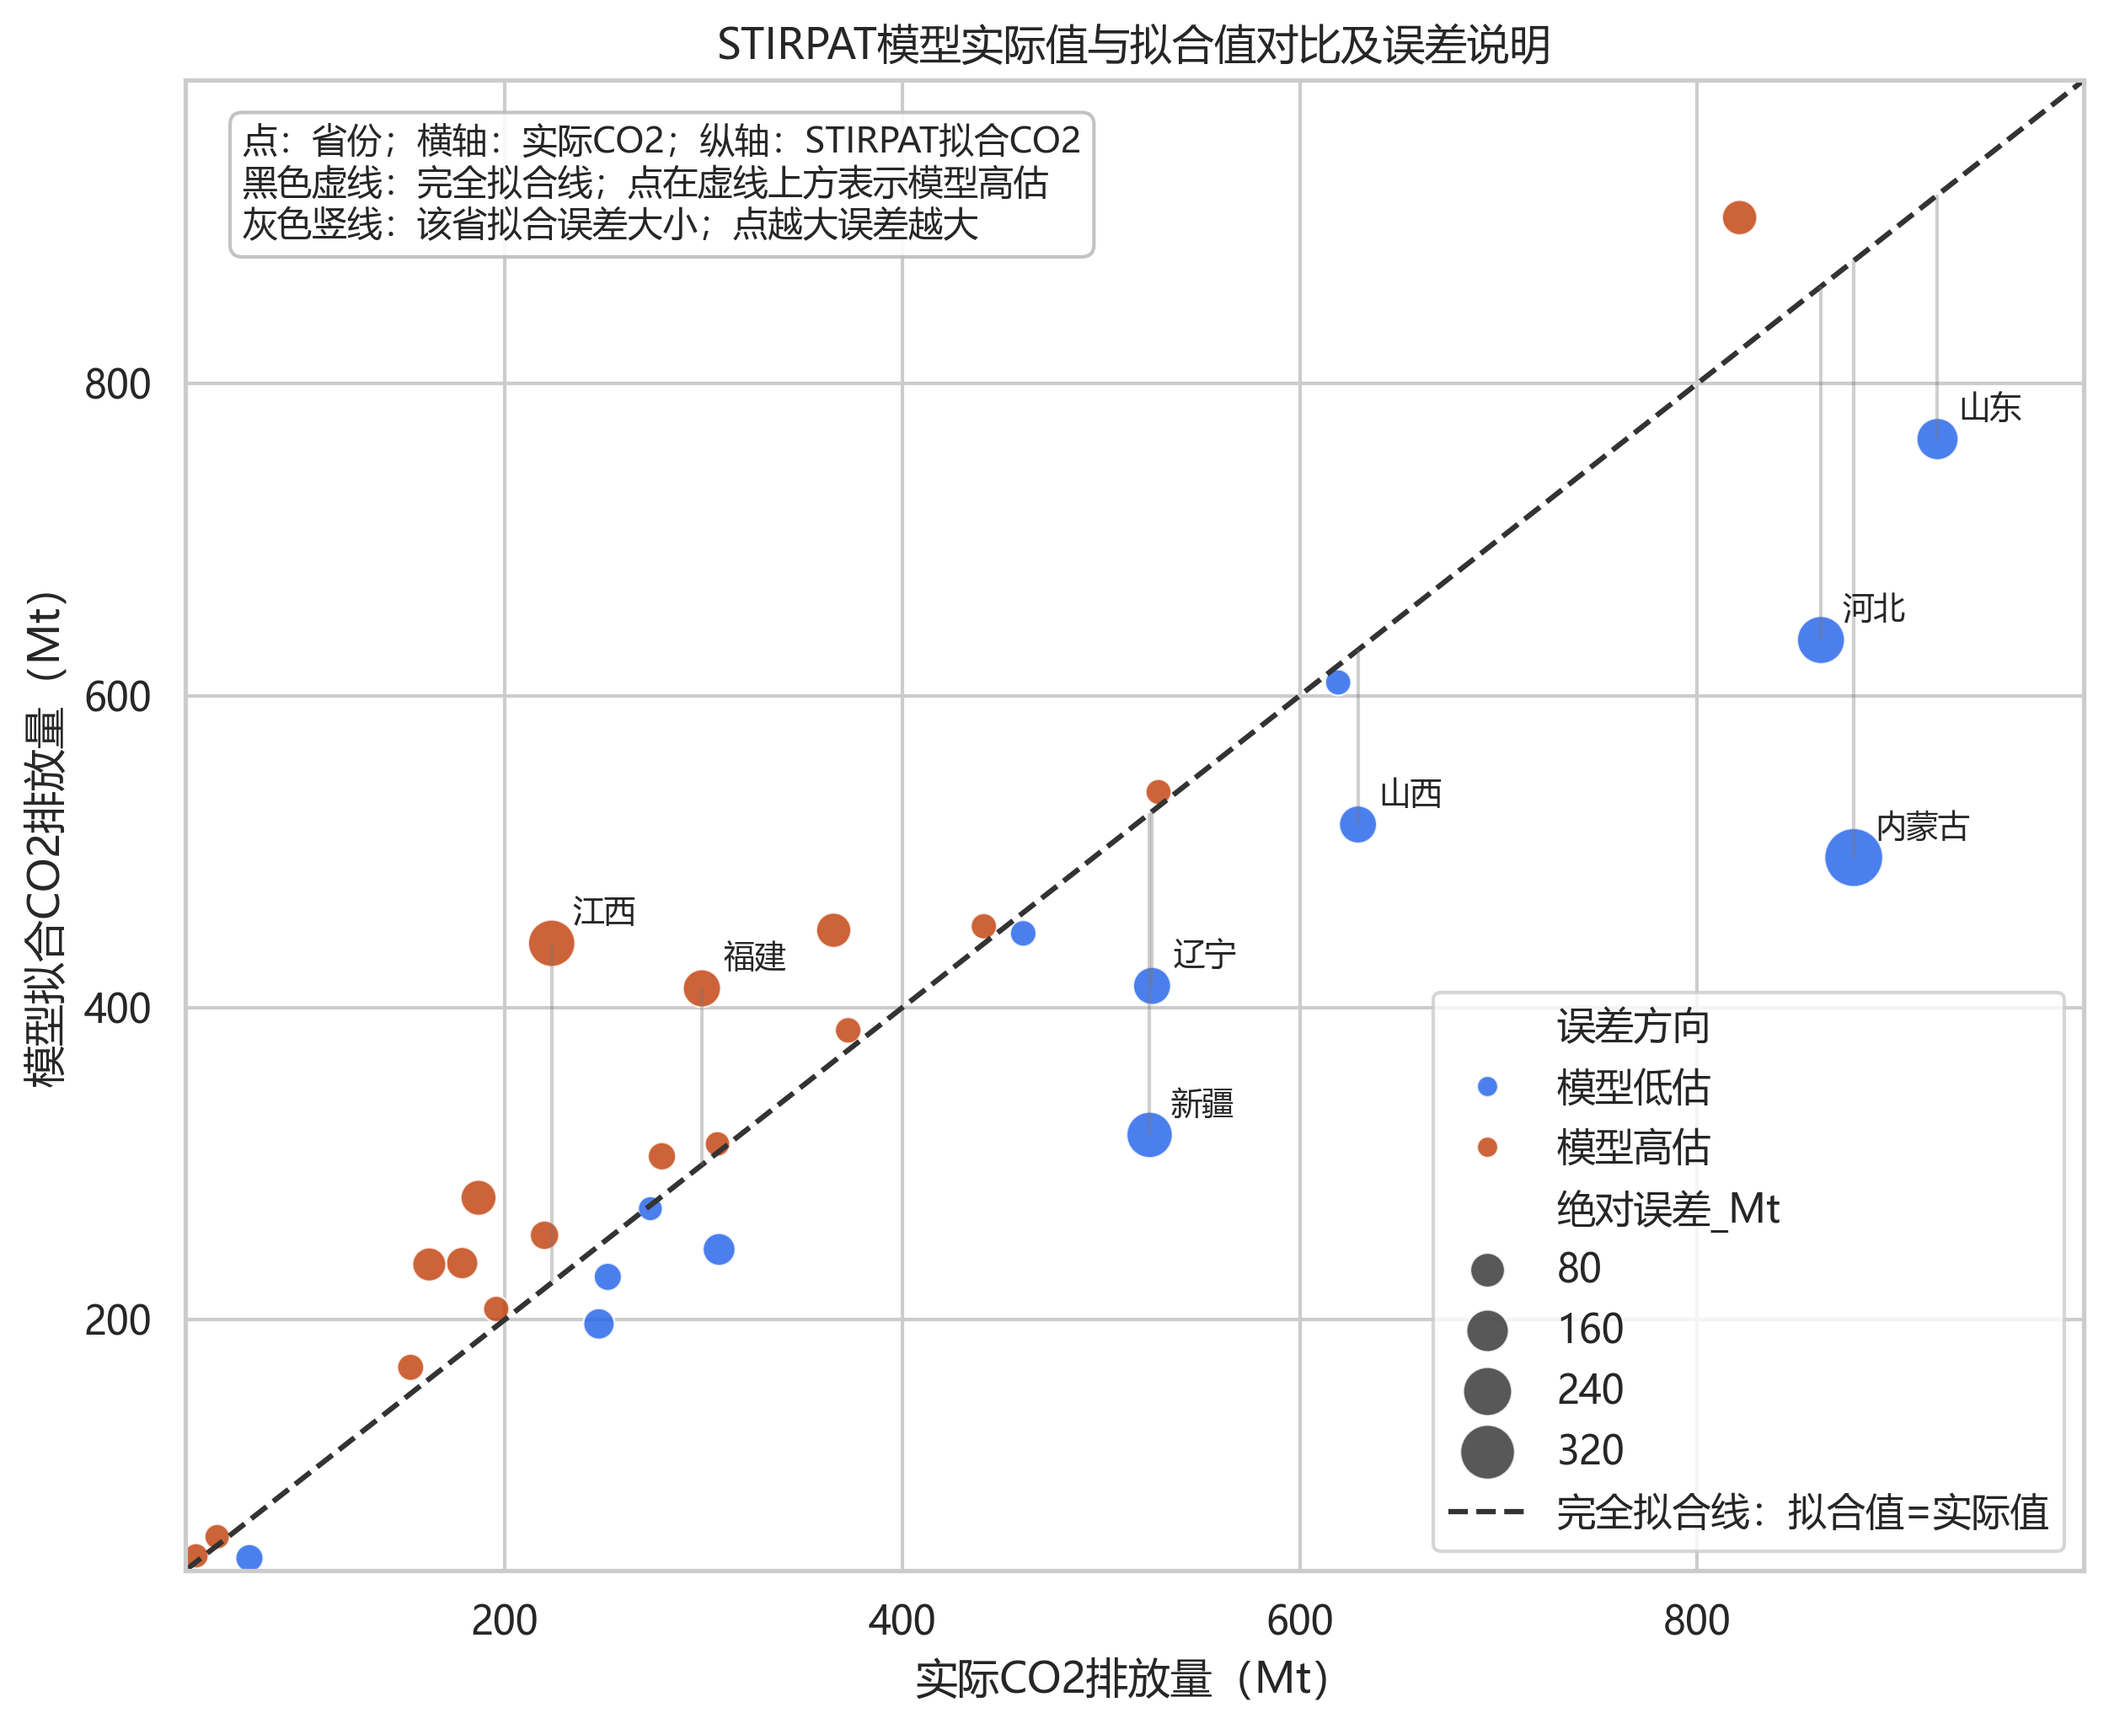
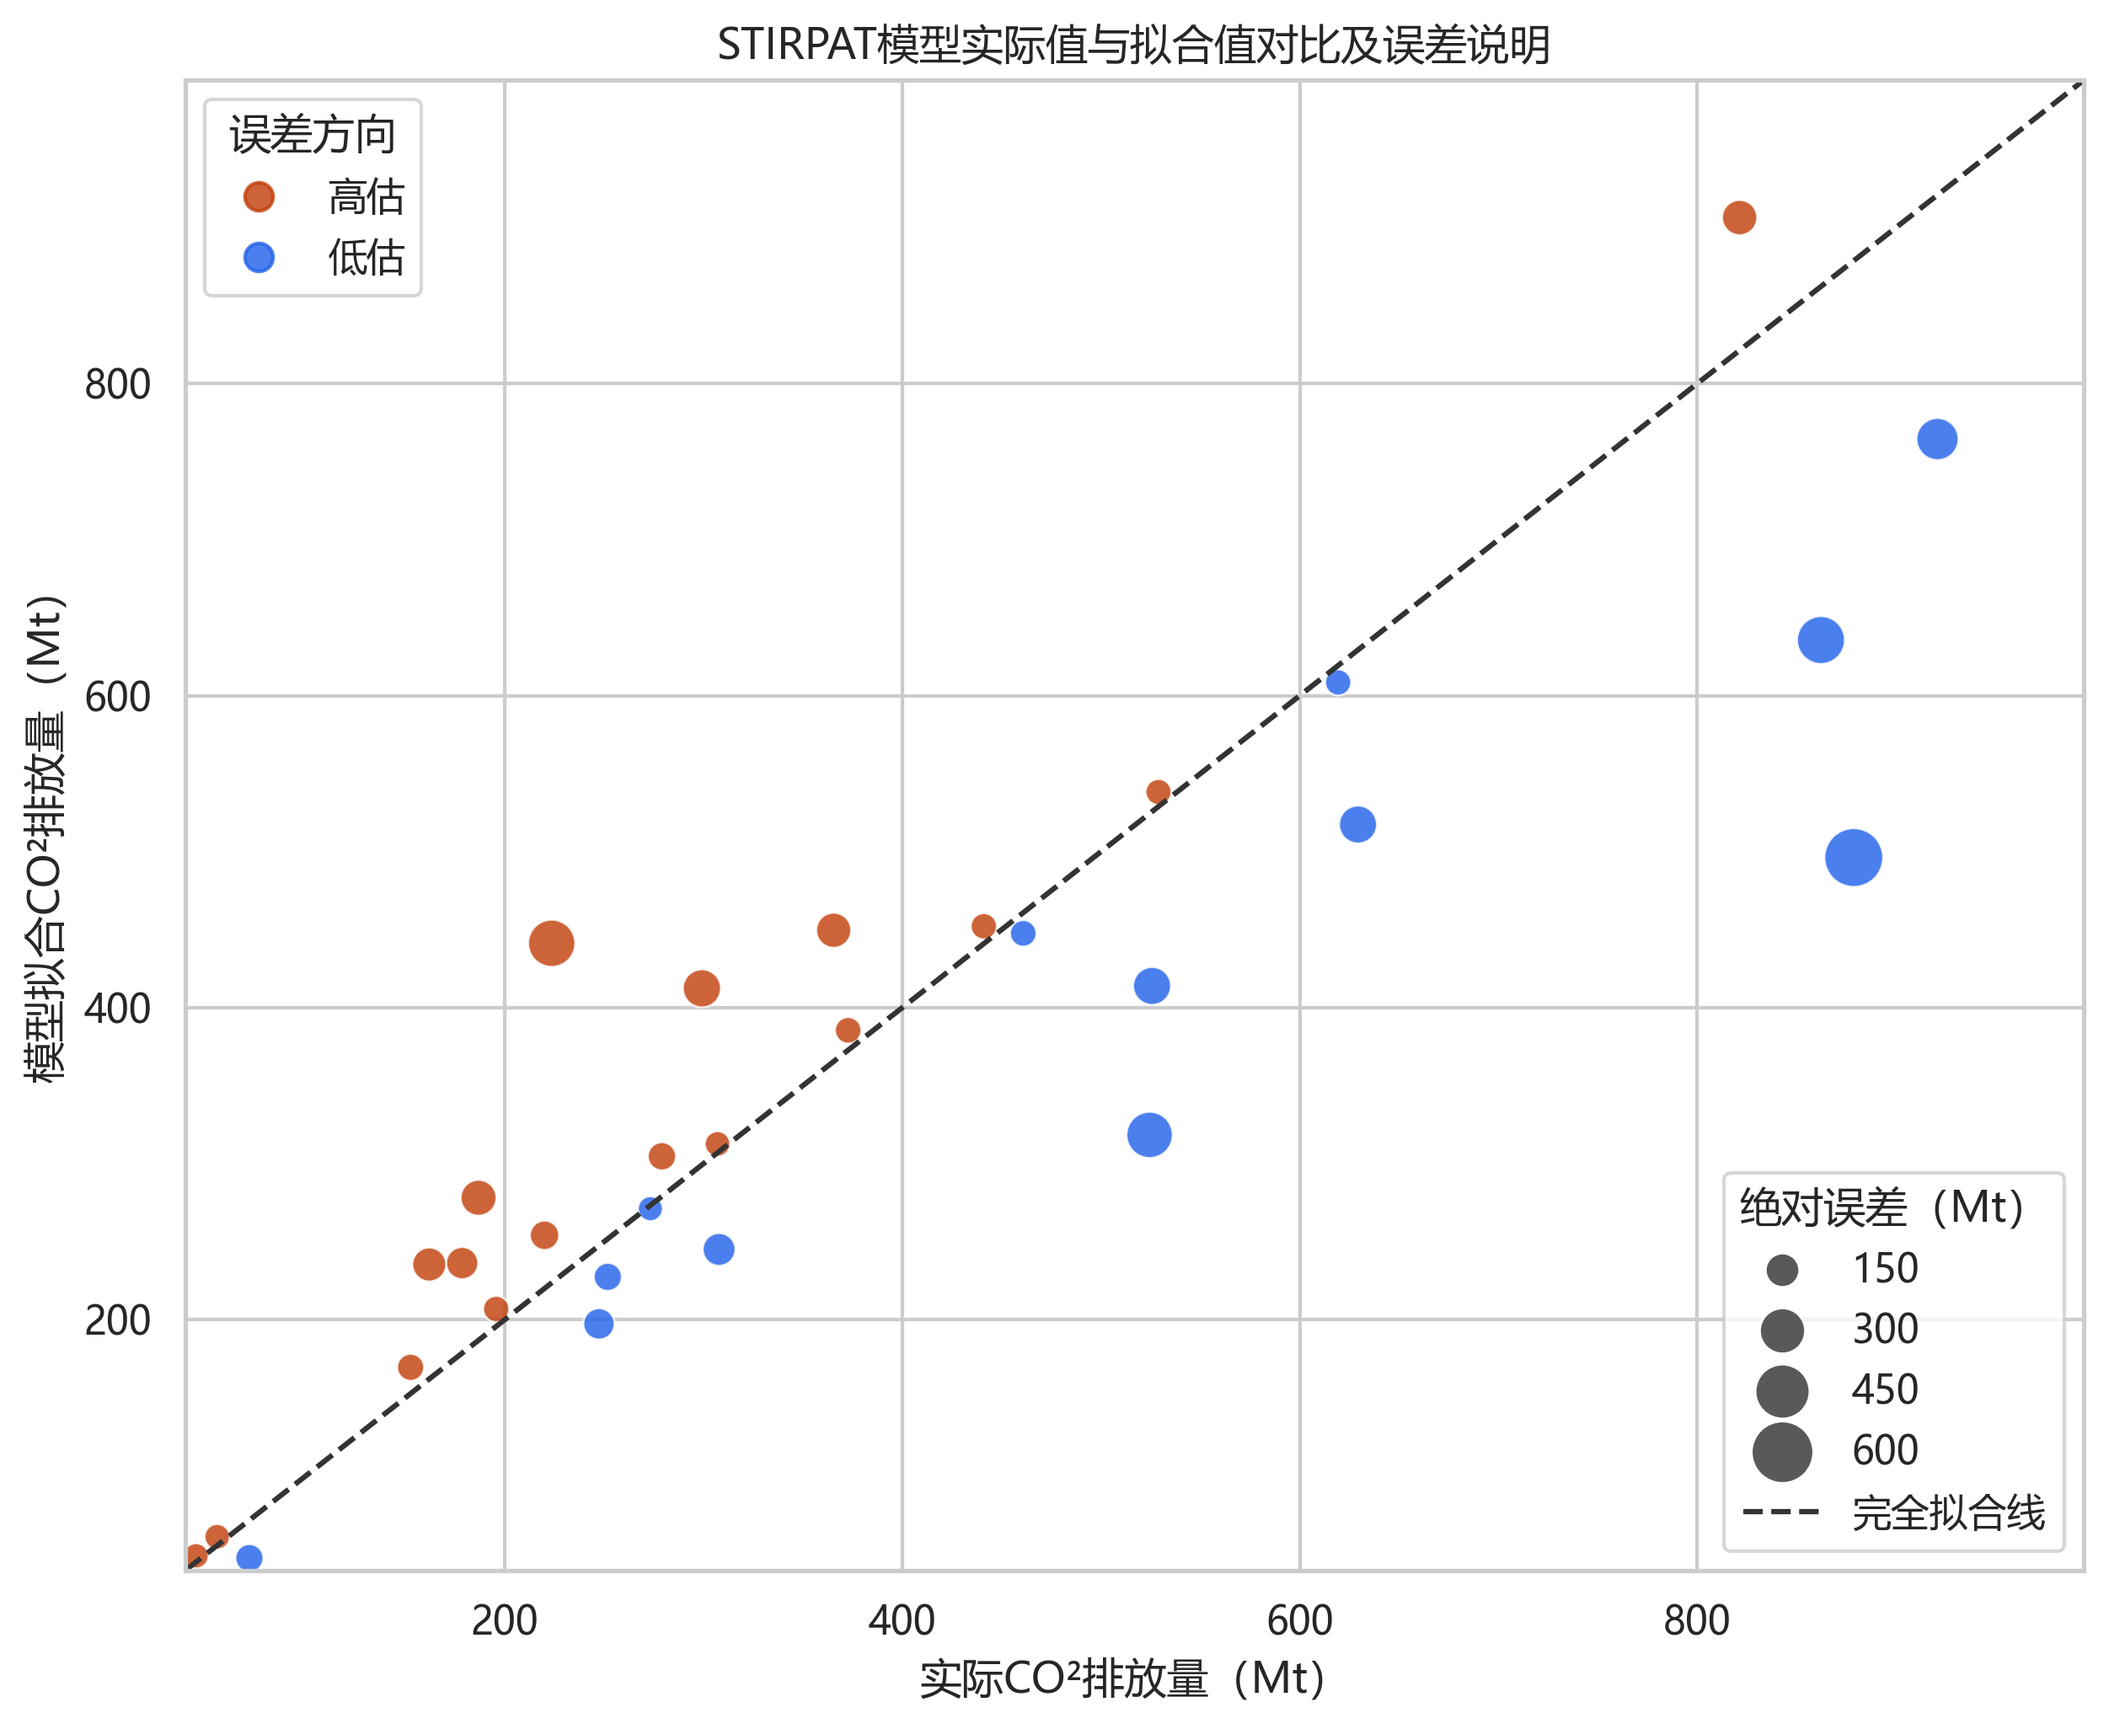
最小二乘法图修改

diff --git a/3.代码/问题二/solve_problem2.py b/3.代码/问题二/solve_problem2.py
@@ -24,6 +24,7 @@ sys.pycache_prefix = str(ROOT / ".pycache")
 sys.path.append(str(CODE_ROOT))
 
 import matplotlib.pyplot as plt
+from matplotlib.lines import Line2D
 import numpy as np
 import pandas as pd
 import seaborn as sns
@@ -166,48 +167,56 @@ def make_problem_two_figures(problem_two: dict[str, pd.DataFrame]) -> None:
 
     fitted = problem_two["fitted"].copy()
     fitted["误差_Mt"] = fitted["拟合CO2_Mt"] - fitted["实际CO2_Mt"]
-    top_labels = fitted.nlargest(8, "绝对误差_Mt")
     lim_min = min(fitted["实际CO2_Mt"].min(), fitted["拟合CO2_Mt"].min()) * 0.88
     lim_max = max(fitted["实际CO2_Mt"].max(), fitted["拟合CO2_Mt"].max()) * 1.08
+    plot_data = fitted.rename(
+        columns={
+            "实际CO2_Mt": "实际CO²排放量（Mt）",
+            "拟合CO2_Mt": "拟合CO²排放量（Mt）",
+            "绝对误差_Mt": "绝对误差（Mt）",
+        }
+    )
+    plot_data["误差方向"] = plot_data["误差方向"].map({"模型高估": "高估", "模型低估": "低估"}).fillna(plot_data["误差方向"])
+    error_palette = {"高估": "#C2410C", "低估": "#2563EB"}
 
     fig, ax = plt.subplots(figsize=(8.5, 7))
     sns.scatterplot(
-        data=fitted,
-        x="实际CO2_Mt",
-        y="拟合CO2_Mt",
+        data=plot_data,
+        x="实际CO²排放量（Mt）",
+        y="拟合CO²排放量（Mt）",
         hue="误差方向",
-        size="绝对误差_Mt",
+        size="绝对误差（Mt）",
         sizes=(50, 280),
-        palette={"模型高估": "#C2410C", "模型低估": "#2563EB"},
+        palette=error_palette,
         alpha=0.82,
+        legend=False,
         ax=ax,
     )
-    ax.plot([lim_min, lim_max], [lim_min, lim_max], "--", color="#333333", linewidth=1.5, label="完全拟合线：拟合值=实际值")
-    for _, row in top_labels.iterrows():
-        ax.annotate(
-            row["省份"],
-            xy=(row["实际CO2_Mt"], row["拟合CO2_Mt"]),
-            xytext=(6, 6),
-            textcoords="offset points",
-            fontsize=9,
-        )
-        ax.vlines(row["实际CO2_Mt"], row["实际CO2_Mt"], row["拟合CO2_Mt"], color="#777777", alpha=0.35, linewidth=1)
-    ax.text(
-        0.03,
-        0.97,
-        "点：省份；横轴：实际CO2；纵轴：STIRPAT拟合CO2\n黑色虚线：完全拟合线；点在虚线上方表示模型高估\n灰色竖线：该省拟合误差大小；点越大误差越大",
-        transform=ax.transAxes,
-        va="top",
-        ha="left",
-        fontsize=10,
-        bbox={"boxstyle": "round,pad=0.35", "facecolor": "white", "edgecolor": "#BBBBBB", "alpha": 0.88},
+    ax.plot([lim_min, lim_max], [lim_min, lim_max], "--", color="#333333", linewidth=1.5)
+    direction_handles = [
+        Line2D([0], [0], marker="o", linestyle="", color=color, label=label, markersize=8, alpha=0.82)
+        for label, color in error_palette.items()
+    ]
+    direction_legend = ax.legend(direction_handles, ["高估", "低估"], title="误差方向", loc="upper left", frameon=True)
+    ax.add_artist(direction_legend)
+    size_values = [150, 300, 450, 600]
+    size_handles = [
+        Line2D([0], [0], marker="o", linestyle="", color="#595959", label=str(value), markersize=np.sqrt(value / 600) * 16)
+        for value in size_values
+    ]
+    line_handle = Line2D([0], [0], linestyle="--", color="#333333", linewidth=1.5, label="完全拟合线")
+    ax.legend(
+        size_handles + [line_handle],
+        [str(value) for value in size_values] + ["完全拟合线"],
+        title="绝对误差（Mt）",
+        loc="lower right",
+        frameon=True,
     )
     ax.set_xlim(lim_min, lim_max)
     ax.set_ylim(lim_min, lim_max)
     ax.set_title("STIRPAT模型实际值与拟合值对比及误差说明")
-    ax.set_xlabel("实际CO2排放量（Mt）")
-    ax.set_ylabel("模型拟合CO2排放量（Mt）")
-    ax.legend(loc="lower right", frameon=True)
+    ax.set_xlabel("实际CO²排放量（Mt）")
+    ax.set_ylabel("模型拟合CO²排放量（Mt）")
     save_fig(fig, FIG_DIR, "06_OLS拟合值与真实值对比图")
 
 
